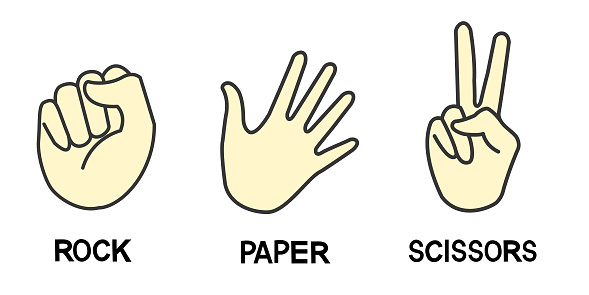
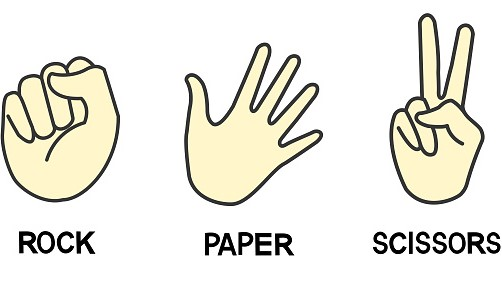
feature: correção de texto

diff --git a/index.html b/index.html
@@ -30,7 +30,7 @@
 
         <img src="assets/caio.jpeg" alt="foto de Caio Lucas" class="foto-perfil">
         <h1>Caio Lucas</h1>
-        <p>Desenvolverdor FullStack</p>
+        <p>Desenvolvedor FullStack</p>
 
     </main>
 
@@ -40,7 +40,7 @@
             <p class="Sobre-paragrafo">
 
             </p>
-            <p class="cabecalho-sobre-titulo">Olá, sou um Desenvolverdor FullStack iniciante com vontade de aprender e
+            <p class="cabecalho-sobre-titulo">Olá, sou um Desenvolvedor FullStack com vontade de aprender e
                 afim de superar novos desáfios!</p>
         </div>
     </section>
@@ -67,11 +67,11 @@
             </div>
 
 
-            <div class="Projeto-card">
-                <img src="assets/rock.jpg" alt="rock" class="projeto-imagem" onclick="openProject('https://pedra-papel-e-tesoura-hazel.vercel.app/')">
+            <div class="Projeto-card "onclick="openProject('https://pedra-papel-e-tesoura-hazel.vercel.app/')">
+                <img src="assets/rock.jpg" alt="rock" class="projeto-imagem">
                 <div class="caixa-textos-projeto">
                     <h3 class="info-projeto">Pedra, papel e tesoura</h3>
-                    <p class="paragrafo-projeto">Jogo clássico de pedra, papel e tesoura implementgit ado em HTML, Tailwind CSS e JavaScript.</p>
+                    <p class="paragrafo-projeto">Jogo clássico de pedra, papel e tesoura implementado em HTML, Tailwind CSS e JavaScript.</p>
                 </div>
             </div>
 
@@ -80,7 +80,7 @@
     </section>
 
     <section id="Contato" class="Contato">
-        <h2 class="Contato-titulo"> Entre em Contato</h2>
+        <h2 class="Contato-titulo">Entre em Contato</h2>
 
         <form class="formulario-contato" id="Formulario" onsubmit="return enviarWhatsApp(event)">
             <div class="campo-form">